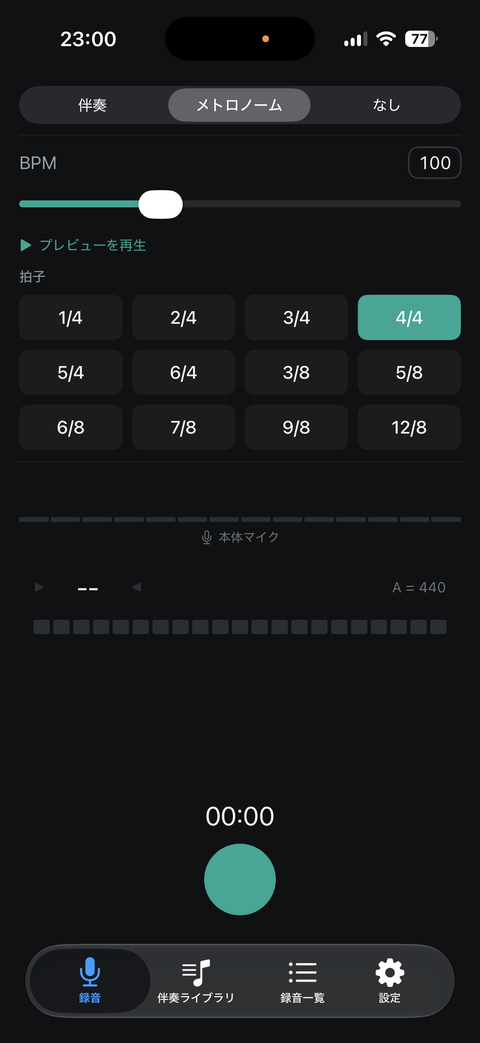
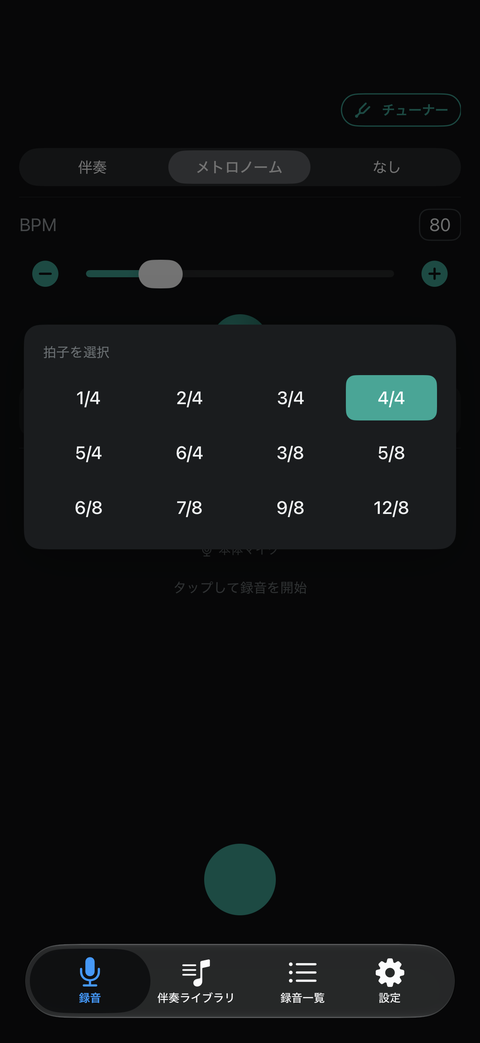
docs: update guide for Mimu 1.2.1 (tuner sheet, transposition, practice mode, earphones)
- Tuner now opens from the "Tuner" button, with digital/analog switch and
  transposition inside it; earphone recommendation when recording with backing.
- "Partial practice" renamed to "Practice mode", with the Rewind button.
- Mini player zoom described.
- Recording-screen images re-captured on 1.2.1; English page now uses English-UI images.

Claude-Session: https://claude.ai/code/session_01C9JmeLtxhEqufZdZ4R13Zs

diff --git a/guide-ja.html b/guide-ja.html
@@ -73,7 +73,7 @@
 </header>
 <main>
   <h1>使い方ガイド</h1>
-  <p class="updated">最終更新日: 2026年8月12日</p>
+  <p class="updated">最終更新日: 2026年10月20日</p>
   <p class="lead">Mimuは、楽器の練習を録音・再生しながら振り返るためのアプリです。画面下部の4つのタブ(録音・伴奏ライブラリ・一覧・設定)を使って練習を記録していきます。</p>
 
   <div class="step">
@@ -84,12 +84,13 @@
       <li><strong>メトロノーム</strong>: BPMと拍子(1/4〜12/8まで多数対応)を設定し、クリック音に合わせて録音できます。「プレビューを再生」で事前に音を確認できます</li>
       <li><strong>なし</strong>: 伴奏なしで、演奏そのものだけを録音します</li>
     </ul>
-    <p>画面下部には使用中のマイク(本体マイクなど)が表示されます。さらに、演奏中の音程をリアルタイムに検出して「C」「E」のように表示する<strong>チューナー機能</strong>もあります(基準ピッチ A = 440Hz)。丸い録音ボタンをタップすると録音が始まります。</p>
-    <p><strong>部分練習</strong>: 伴奏モードで曲を選ぶとトグルが表示され、ONにすると波形上でA地点・B地点を指定してその区間だけをループ再生しながら練習できます。5秒進む/戻るボタンで前後に移動することもできます。</p>
+    <p>画面下部には使用中のマイク(本体マイクなど)が表示されます。丸い録音ボタンをタップすると録音が始まります。Mimuは本体のマイクで録音するため、伴奏やメトロノームはイヤホンで聴くのがおすすめです(イヤホンをつながずに録音を始めると案内が表示されます。「次回から表示しない」にチェックすると以後は表示されません)。</p>
+    <p><strong>チューナー</strong>: 画面右上の「チューナー」ボタンで開きます。演奏中の音程を検出して「C」「E」のように表示します(基準ピッチ A = 440Hz)。デジタル/アナログ表示の切り替えや、<strong>移調</strong>(楽譜の音で表示したい場合のズレ。例: B♭管は+2、E♭管は+9)の設定もここで行えます。チューニングが終わったら「完了」で閉じます。</p>
+    <p><strong>練習モード</strong>: 伴奏モードで曲を選ぶとトグルが表示され、ONにすると波形上でA地点・B地点を指定してその区間だけをループ再生しながら練習できます。5秒進む/戻るボタンや、A地点(未設定なら曲の先頭)に戻る「頭から」ボタンも使えます。</p>
     <div class="shots">
       <figure><img src="images/shot-record-metronome.png" alt="メトロノームモードの録音画面"><figcaption>メトロノームモード</figcaption></figure>
-      <figure><img src="images/shot-record-accompaniment.png" alt="伴奏モードの録音画面"><figcaption>伴奏モード</figcaption></figure>
-      <figure><img src="images/shot-practice-loop.png" alt="部分練習(A-Bループ)の画面"><figcaption>部分練習(A-Bループ)</figcaption></figure>
+      <figure><img src="images/shot-record-tuner.png" alt="チューナーを開いた録音画面"><figcaption>チューナー・移調</figcaption></figure>
+      <figure><img src="images/shot-practice-loop.png" alt="練習モード(A-Bループ)の画面"><figcaption>練習モード(A-Bループ)</figcaption></figure>
     </div>
   </div>
 
@@ -126,7 +127,7 @@
     <h2><span class="step-num">4</span>録音一覧</h2>
     <p>これまでに録音した演奏を一覧で確認・再生できます。過去の練習を振り返りたいときに使ってください。</p>
     <ul>
-      <li>再生中は画面下部に<strong>ミニプレイヤー</strong>が表示され、他のタブに移動しても再生が続きます。経過/総時間の表示や、5秒進む/戻るボタンも使えます</li>
+      <li>再生中は画面下部に<strong>ミニプレイヤー</strong>が表示され、他のタブに移動しても再生が続きます。経過/総時間の表示や、5秒進む/戻るボタンも使えます。拡大ボタンを押すと波形を大きく表示し、ピンチ・ドラッグで細かい部分を確認しながら再生できます</li>
       <li>各行の★ボタンで<strong>お気に入り</strong>登録でき、ナビゲーションバーの★ボタンでお気に入りだけに絞り込めます</li>
       <li>行を左にスワイプすると「名前を変更」「削除」「共有」を選べます</li>
       <li>再生中に表示される「この曲で録音」ボタンから、その録音を次の録音の伴奏として使うこともできます</li>

diff --git a/guide-en.html b/guide-en.html
@@ -69,7 +69,7 @@
 </header>
 <main>
   <h1>User Guide</h1>
-  <p class="updated">Last updated: August 12, 2026</p>
+  <p class="updated">Last updated: October 20, 2026</p>
   <p class="lead">Mimu helps you practice an instrument by recording yourself, listening back, and refining your performance. Use the four tabs at the bottom of the screen — Record, Accompaniment Library, List, and Settings — to build your practice routine.</p>
 
   <div class="step">
@@ -80,12 +80,13 @@
       <li><strong>Metronome</strong>: set a BPM and time signature (a wide range from 1/4 to 12/8 is supported) and record along with a click track. Use "Play Preview" to hear it before you start</li>
       <li><strong>None</strong>: record just your performance, with no backing track</li>
     </ul>
-    <p>The active microphone (such as the built-in mic) is shown at the bottom of the screen, along with a <strong>real-time tuner</strong> that detects the pitch of your playing and displays it as a note name (like "C" or "E"), referenced to A = 440Hz. Tap the round button to start recording.</p>
-    <p><strong>Partial Practice</strong>: when you pick a track in Accompaniment mode, a toggle appears — turn it on to show a waveform where you can set point A and point B, then loop that section while you practice. You can also jump forward/back 5 seconds with the skip buttons.</p>
+    <p>The active microphone (such as the built-in mic) is shown at the bottom of the screen. Tap the round button to start recording. Mimu records with your device's built-in mic, so we recommend listening to the backing track or metronome through earphones (if you start recording without earphones connected, Mimu shows a reminder — check "Don't show this again" to hide it from then on).</p>
+    <p><strong>Tuner</strong>: tap the "Tuner" button at the top right to open it. It detects the pitch of your playing and shows it as a note name (like "C" or "E"), referenced to A = 440Hz. You can switch between digital and analog display and set the <strong>transposition</strong> here (to show written notes, e.g. +2 for B♭ instruments, +9 for E♭ instruments). Tap "Done" when you've finished tuning.</p>
+    <p><strong>Practice mode</strong>: when you pick a track in Accompaniment mode, a toggle appears — turn it on to show a waveform where you can set point A and point B, then loop that section while you practice. You can also jump forward/back 5 seconds, or tap "Rewind" to go back to point A (or the start of the track if A isn't set).</p>
     <div class="shots">
-      <figure><img src="images/shot-record-metronome.png" alt="Recording screen in metronome mode"><figcaption>Metronome mode</figcaption></figure>
-      <figure><img src="images/shot-record-accompaniment.png" alt="Recording screen in accompaniment mode"><figcaption>Accompaniment mode</figcaption></figure>
-      <figure><img src="images/shot-practice-loop.png" alt="Partial practice (A-B loop) screen"><figcaption>Partial practice (A-B loop)</figcaption></figure>
+      <figure><img src="images/shot-record-metronome-en.png" alt="Recording screen in metronome mode"><figcaption>Metronome mode</figcaption></figure>
+      <figure><img src="images/shot-record-tuner-en.png" alt="Recording screen with the tuner open"><figcaption>Tuner and transposition</figcaption></figure>
+      <figure><img src="images/shot-practice-loop-en.png" alt="Practice mode (A-B loop) screen"><figcaption>Practice mode (A-B loop)</figcaption></figure>
     </div>
   </div>
 
@@ -122,7 +123,7 @@
     <h2><span class="step-num">4</span>Recording List</h2>
     <p>Browse and play back all your saved recordings — useful for reviewing your practice history over time.</p>
     <ul>
-      <li>While something is playing, a <strong>mini player</strong> stays docked at the bottom of the screen, even if you switch tabs. It shows elapsed/total time and has 5-second skip controls</li>
+      <li>While something is playing, a <strong>mini player</strong> stays docked at the bottom of the screen, even if you switch tabs. It shows elapsed/total time and has 5-second skip controls. Tap the zoom button to show a larger waveform you can pinch and drag to check details while it plays</li>
       <li>Tap the star on any row to mark it as a <strong>favorite</strong>, and use the star button in the navigation bar to filter to favorites only</li>
       <li>Swipe a row left to reveal "Rename," "Delete," and "Share"</li>
       <li>While a recording is playing, tap "Record With This Track" to use it as the backing track for your next recording</li>
